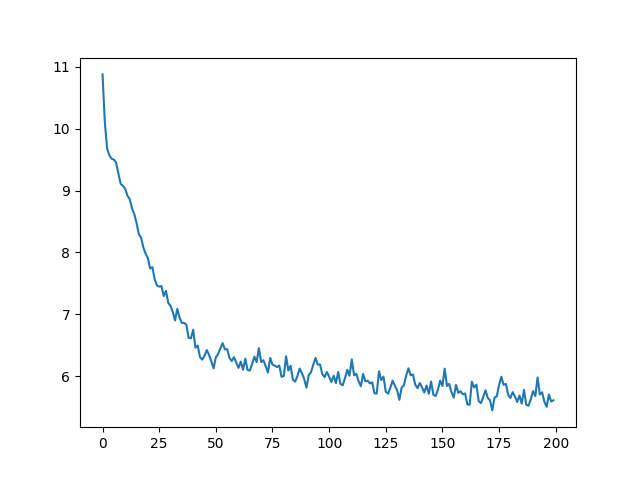
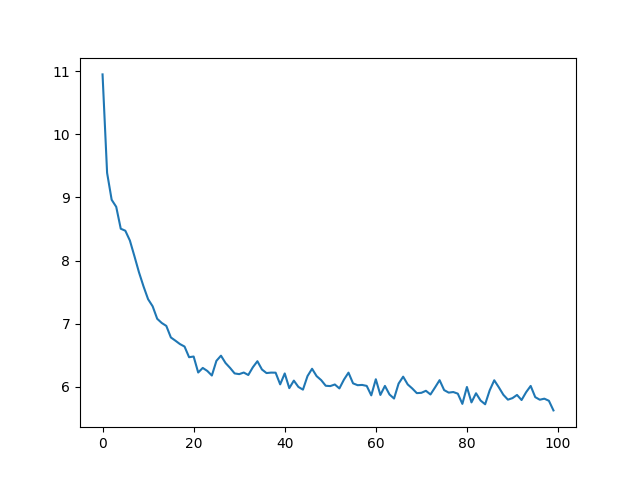
Improve training speed

diff --git a/train.py b/train.py
@@ -94,14 +94,18 @@ class CausalSelfAttention(nn.Module):
         sqrt_d_k = 1.0 * math.sqrt(q.size(-1))
         attn = (q @ k_T) * sqrt_d_k
 
-        # Mask out the upper half of the dot product matrix, excluding the diagonal
-        # In other words, we only want to consider the "past" context
-        attn = attn.masked_fill(self.bias[:, :, :T, :T] == 0, float("-inf"))
-        attn = F.softmax(attn, dim=-1)
+        # # Baseline
+        # # Mask out the upper half of the dot product matrix, excluding the diagonal
+        # # In other words, we only want to consider the "past" context
+        # attn = attn.masked_fill(self.bias[:, :, :T, :T] == 0, float("-inf"))
+        # attn = F.softmax(attn, dim=-1)
+        # 
+        # # Apply the attention to the values
+        # y = attn @ v  # B, nh, T, T @ B, nh, T, hs = B, nh, T, hs
+        # # Weighted average of the values with the attention scores
 
-        # Apply the attention to the values
-        y = attn @ v  # B, nh, T, T @ B, nh, T, hs = B, nh, T, hs
-        # Weighted average of the values with the attention scores
+        # SPEED!: flash attention
+        y = F.scaled_dot_product_attention(q, k, v, is_causal=True)
 
         y = y.transpose(1, 2)  # B, T, nh, hs
         # contiguous() is required because of the transpose because it doesn't change the memory layout
@@ -131,12 +135,12 @@ class Block(nn.Module):
 
 @dataclass
 class GPTConfig:
-    context_size: int = 256  # block size is just the context size
+    context_size: int = 1024  # block size is just the context size
     # 64 because: [PAD], [SOS], [EOS], [MASK], [UNK] + 60 characters
-    vocab_size: int = 65
-    n_layer: int = 6
-    n_head: int = 6
-    n_embd: int = 384
+    vocab_size: int = 50257 # 50,000 BPE merges + 256 bytes tokens + 1 <|endoftext|> token
+    n_layer: int = 12
+    n_head: int = 12
+    n_embd: int = 768
     debug: bool = False
 
 
@@ -310,6 +314,7 @@ class DataLoaderLite:
         self.current_position += B * T
         # if loading the next batch would be out of bounds, reset
         if self.current_position + (B * T + 1) > len(self.tokens):
+            print("\n\t!!! Dataset Loop Completed !!!\n")
             self.current_position = 0
 
         assert x.size() == y.size() == (B, T), "Size mismatch"
@@ -336,18 +341,23 @@ if __name__ == "__main__":
     # Instantiate the data loader
     train_loader = DataLoaderLite(B=8, T=1024)
 
-    torch.set_float32_matmul_precision("high")
+    # SPEED!: Use TF32
+    torch.set_float32_matmul_precision("high") # Use TF32 on GPUs which support it
 
-    model = GPT2(GPTConfig(vocab_size=50257, context_size=1024))
+    # SPEED!: all numbers powers of 2
+    model = GPT2(GPTConfig(vocab_size=50304, context_size=1024))
+    # model = GPT2(GPTConfig()) # Baseline
     model.to(device)
+    # SPEED!: Torch Compile
+    model = torch.compile(model)
 
     # Training
     losses = []
     avg_losses = []
-    epochs = 200
+    epochs = 100
     # moving_window_length = 200
 
-    print(f"Training for {epochs} epochs, {model.config.context_size * 8 * 82} tokens")
+    print(f"Training for {epochs} epochs, {model.config.context_size * 16 * 20} tokens")
     optimizer = torch.optim.AdamW(model.parameters(), lr=3e-4)
 
     for i in range(epochs):
@@ -357,7 +367,12 @@ if __name__ == "__main__":
 
         optimizer.zero_grad()  # needed as pytorch accumulates gradients
 
-        logits, loss = model(x, y)
+        # SPEED!: autocast to bfloat16
+        with torch.autocast(device_type=device, dtype=torch.bfloat16):
+          logits, loss = model(x, y)
+          # import code; code.interact(locals=locals())
+        # logits, loss = model(x, y) # Baseline
+
         loss.backward()
         optimizer.step()
         torch.cuda.synchronize() # Wait for GPUs to complete the above queued up tasks
